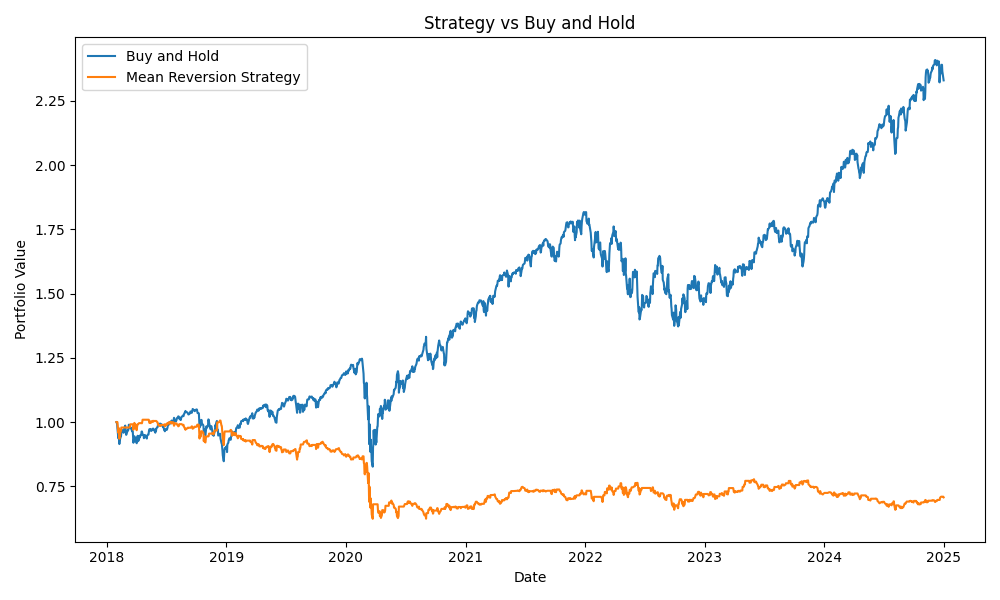
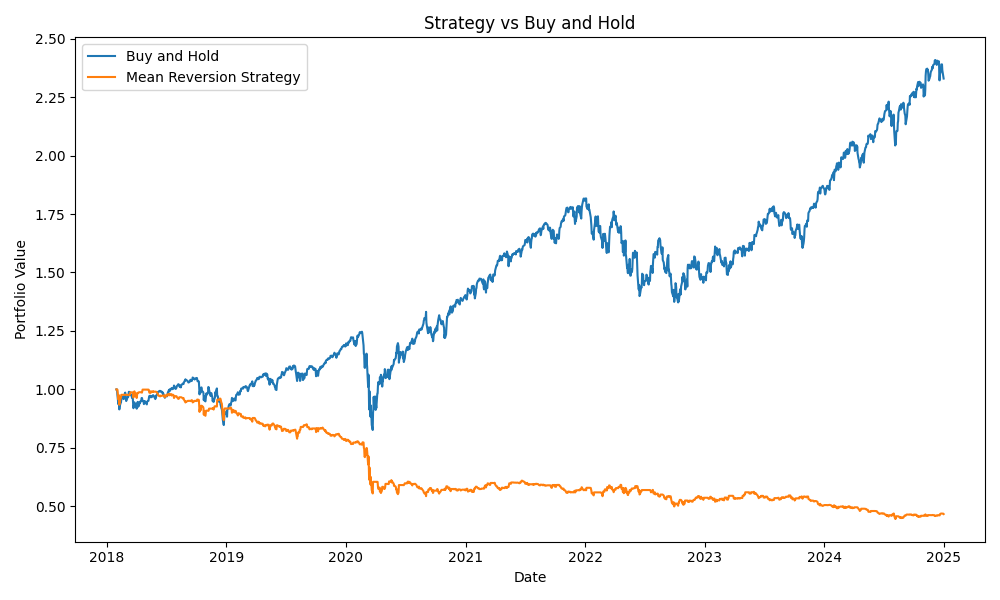
Add transaction costs, parameter sweep analysis, and improve README with results and insights

diff --git a/main.py b/main.py
@@ -4,28 +4,37 @@ from src.backtest import run_backtest
 from src.metrics import compute_metrics
 from src.plot import plot_equity_curves
 
+import pandas as pd
+
 def main():
     ticker = "SPY"
+    df = load_data(ticker = ticker)
 
-    df = load_data(ticker = ticker, start = "2018-01-01", end = "2025-01-01")
-    df = generate_signals(df, window = 20, z_threshold = 1.0)
-    df = run_backtest(df)
+    windows = [10, 20, 50]
+    thresholds = [0.5, 1.0, 1.5]
 
-    strategy_metrics = compute_metrics(df["strategy_returns"])
-    buy_hold_metrics = compute_metrics(df["returns"])
+    results = []
 
-    print(f"\nResults for {ticker}\n")
+    for w in windows:
+        for t in thresholds:
+            temp_df = generate_signals(df, window=w, z_threshold=t)
+            temp_df = run_backtest(temp_df)
 
-    print("Strategy Metrics:")
-    for key, value in strategy_metrics.items():
-        print(f"{key}: {value:.4f}")
+            metrics = compute_metrics(temp_df["strategy_returns"])
 
-    print("\nBuy-and-Hold Metrics:")
-    for key, value in buy_hold_metrics.items():
-        print(f"{key}: {value:.4f}")
-    
-    plot_equity_curves(df)
+            results.append({
+                "window": w,
+                "threshold": t,
+                "total_return": metrics["total_return"],
+                "sharpe": metrics["sharpe_ratio"],
+                "max_drawdown": metrics["max_drawdown"]
+            })
+        
+    results_df = pd.DataFrame(results)
+    print("\nParameter Sweep Results:\n")
+    print(results_df)
+
+    results_df.to_csv("results/parameter_sweep.csv", index=False)
 
 if __name__ == "__main__":
     main()
-

diff --git a/src/backtest.py b/src/backtest.py
@@ -8,6 +8,10 @@ def run_backtest(df: pd.DataFrame) -> pd.DataFrame:
     df["returns"] = df["price"].pct_change()
     df["strategy_returns"] = df["position"].shift(1) * df["returns"]
 
+    df["trades"] = df["position"].diff().abs()
+    cost_per_trade = 0.001 # 0.01% per trade
+    df["strategy_returns"] -= df["trades"] * cost_per_trade
+
     df["buy_hold_equity"] = (1 + df["returns"].fillna(0)).cumprod()
     df["strategy_equity"] = (1 + df["strategy_returns"].fillna(0)).cumprod()
 

diff --git a/src/metrics.py b/src/metrics.py
@@ -21,9 +21,9 @@ def compute_metrics(returns: pd.Series) -> dict:
     max_drawdown = drawdown.min()
 
     return{
-        "total return": total_return,
-        "annualized return": annualized_return,
+        "total_return": total_return,
+        "annualized_return": annualized_return,
         "volatility": volatility,
-        "sharpe ratio": sharpe,
-        "max drawdown": max_drawdown
+        "sharpe_ratio": sharpe,
+        "max_drawdown": max_drawdown
     }

diff --git a/README.md b/README.md
@@ -1,47 +1,81 @@
-# Mean Reversion Backtester
+# Mean Reversion Strategy Backtester
 
 ## Overview
-This project tests a simple mean reversion trading strategy on historical price data using Python.
+This project implements and evaluates a mean reversion trading strategy under realistic assumptions, including transaction costs and parameter variation, to assess robustness.
 
 ## Motivation
-I built this project to better understand how rule-based trading strategies are designed, tested, and evaluated on real market data.
+I built this project to explore how systematic trading strategies behave in practice, with a focus on testing assumptions, evaluating robustness, and identifying failure modes rather than optimizing performance.
 
 ## Strategy
-The strategy computes a rolling moving average and rolling standard deviation, then calculates a z-score:
+The strategy computes a rolling moving average and rolling standard deviation, and defines a z-score:
 
 z = (price - moving average) / rolling standard deviation
 
-- Go long when z-score < -1
-- Go short when z-score > 1
-- Stay flat otherwise
+- Go long when z-score < -1  
+- Go short when z-score > 1  
+- Stay flat otherwise  
+
+This framework assumes that prices revert to their recent mean.
 
 ## Data
 Historical daily price data is downloaded using `yfinance`.
 
-Example ticker tested:
-- SPY
+Assets tested:
+- SPY (S&P 500 ETF)
 
 ## Metrics
 The backtest evaluates:
-- total return
-- annualized return
-- volatility
-- Sharpe ratio
-- max drawdown
+- total return  
+- annualized return  
+- volatility  
+- Sharpe ratio  
+- maximum drawdown
+
+## Backtesting Methodology
+- Signals are applied with a one-day lag to avoid look-ahead bias  
+- Transaction costs are applied when positions change
 
 ## Results
-The strategy can perform better in range-bound conditions but tends to struggle during strong trends. This suggests mean reversion may be sensitive to market regime.
+
+| Strategy          | Total Return | Annual Return | Sharpe | Max Drawdown |
+|------------------|-------------|--------------|--------|--------------|
+| Mean Reversion   | -53.3%      | -10.4%       | -0.69  | -55.3%       |
+| Buy & Hold (SPY) | +132.9%     | +13.0%       | 0.67   | -33.7%       |
+
+The mean reversion strategy significantly underperforms buy-and-hold on SPY and produces negative risk-adjusted returns.
+
+After incorporating transaction costs, performance deteriorates further, indicating that the strategy relies heavily on frequent trading and small price movements.
+
+These results highlight an important limitation: while mean reversion strategies may work in range-bound environments, they tend to fail in strongly trending markets such as SPY. The evidence suggests the strategy’s failure is structural rather than due to parameter choice, and that naive mean reversion is not effective on SPY without additional constraints.
+
+## Parameter Sensitivity Analysis
+
+The strategy was evaluated across multiple parameter configurations:
+
+- Lookback windows: 10, 20, 50 days  
+- Z-score thresholds: 0.5, 1.0, 1.5  
+
+Performance remains negative across all parameter combinations, suggesting that the strategy’s failure is structural rather than due to poor parameter selection.
+
+More conservative configurations (longer lookback windows and higher thresholds) reduce trading frequency and improve results, indicating that overtrading and transaction costs are key drivers of underperformance.
+
+Even in the best cases, the strategy fails to generate positive risk-adjusted returns, reinforcing the importance of incorporating additional filters or constraints.
+
+## Key Insights
+- Transaction costs can eliminate apparent strategy edge  
+- Strategy performance is highly sensitive to trading frequency  
+- SPY exhibits strong trending behavior, making it unsuitable for naive mean reversion  
 
 ## Limitations
-This project does not include:
-- transaction costs
-- slippage
-- position sizing rules
-- production-level execution assumptions
+This implementation simplifies several real-world factors:
+- fixed transaction cost assumption (no slippage modeling)
+- no position sizing or risk management
+- single-asset testing
+- no out-of-sample validation
 
 ## Next Steps
-Potential improvements:
-- add transaction costs
-- test multiple tickers
-- add volatility filters
-- compare parameter choices
+Potential improvements include:
+- testing across multiple asset classes (e.g., GLD, QQQ, USO)
+- adding volatility or trend filters
+- performing parameter sensitivity analysis
+- incorporating more realistic transaction cost models
